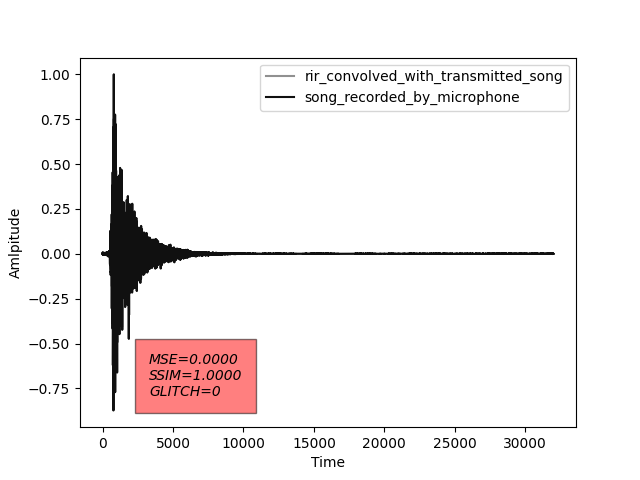
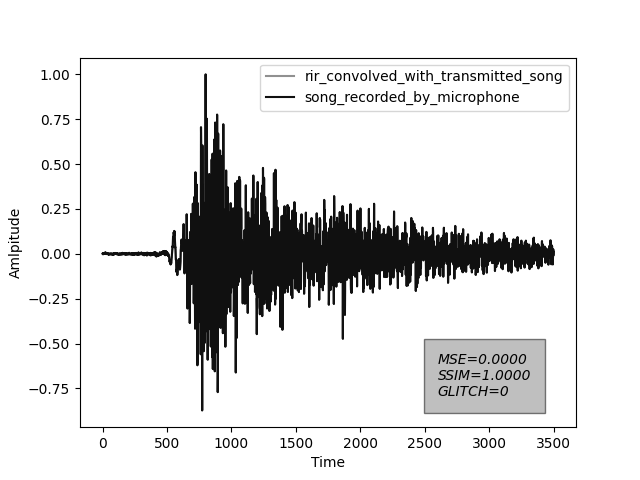
MP

diff --git a/03.data_generation/rir-reports/questionnaire/real-rir-plot.py b/03.data_generation/rir-reports/questionnaire/real-rir-plot.py
@@ -65,8 +65,9 @@ def saveRealAndGeneratedPlots(real_data,generated_data,saveToPath,real_front=Fal
         plt.plot(generated_data,color='#909090', label='rir_convolved_with_transmitted_song')
         plt.plot(real_data,color='#101010', label='song_recorded_by_microphone')
 
-     plt.text(3300, minValue+abs(minValue)/11, f"MSE={float(MSE):.4f}\nSSIM={float(SSIM):.4f}\nGLITCH={int(len(glitch_points))}", style='italic',
-        bbox={'facecolor': 'red', 'alpha': 0.5, 'pad': 10})
+     plt.text(2600, minValue+abs(minValue)/11, f"MSE={float(MSE):.4f}\nSSIM={float(SSIM):.4f}\nGLITCH={int(len(glitch_points))}", style='italic',
+        bbox={'facecolor': 'gray', 'alpha': 0.5, 'pad': 10})
+
 
      #plt.title(title)
      plt.xlabel('Time')
@@ -99,6 +100,7 @@ rir_fname=sys.argv[1]
 rir_data,sampling_rate=librosa.load(rir_fname,sr=16000)
 
 rir_data=rir_data*1/np.max(rir_data)
+rir_data=rir_data[0:3500]
 
 saveRealAndGeneratedPlots(rir_data,rir_data,rir_fname+'.rir.coherence.plot.png')
 
